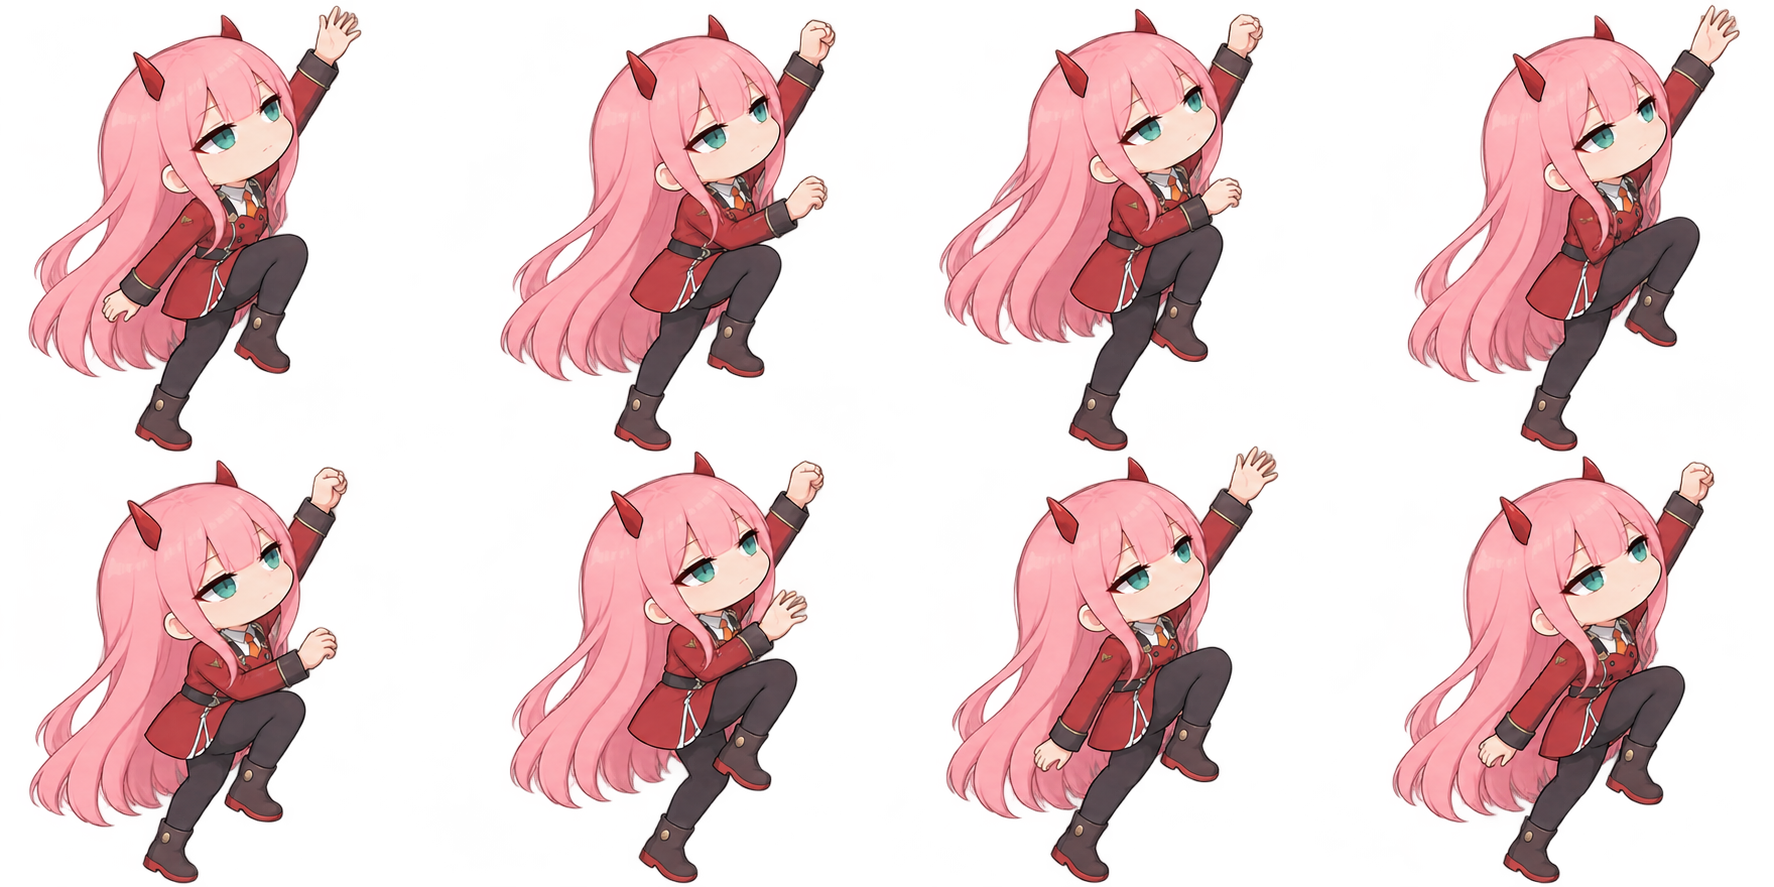
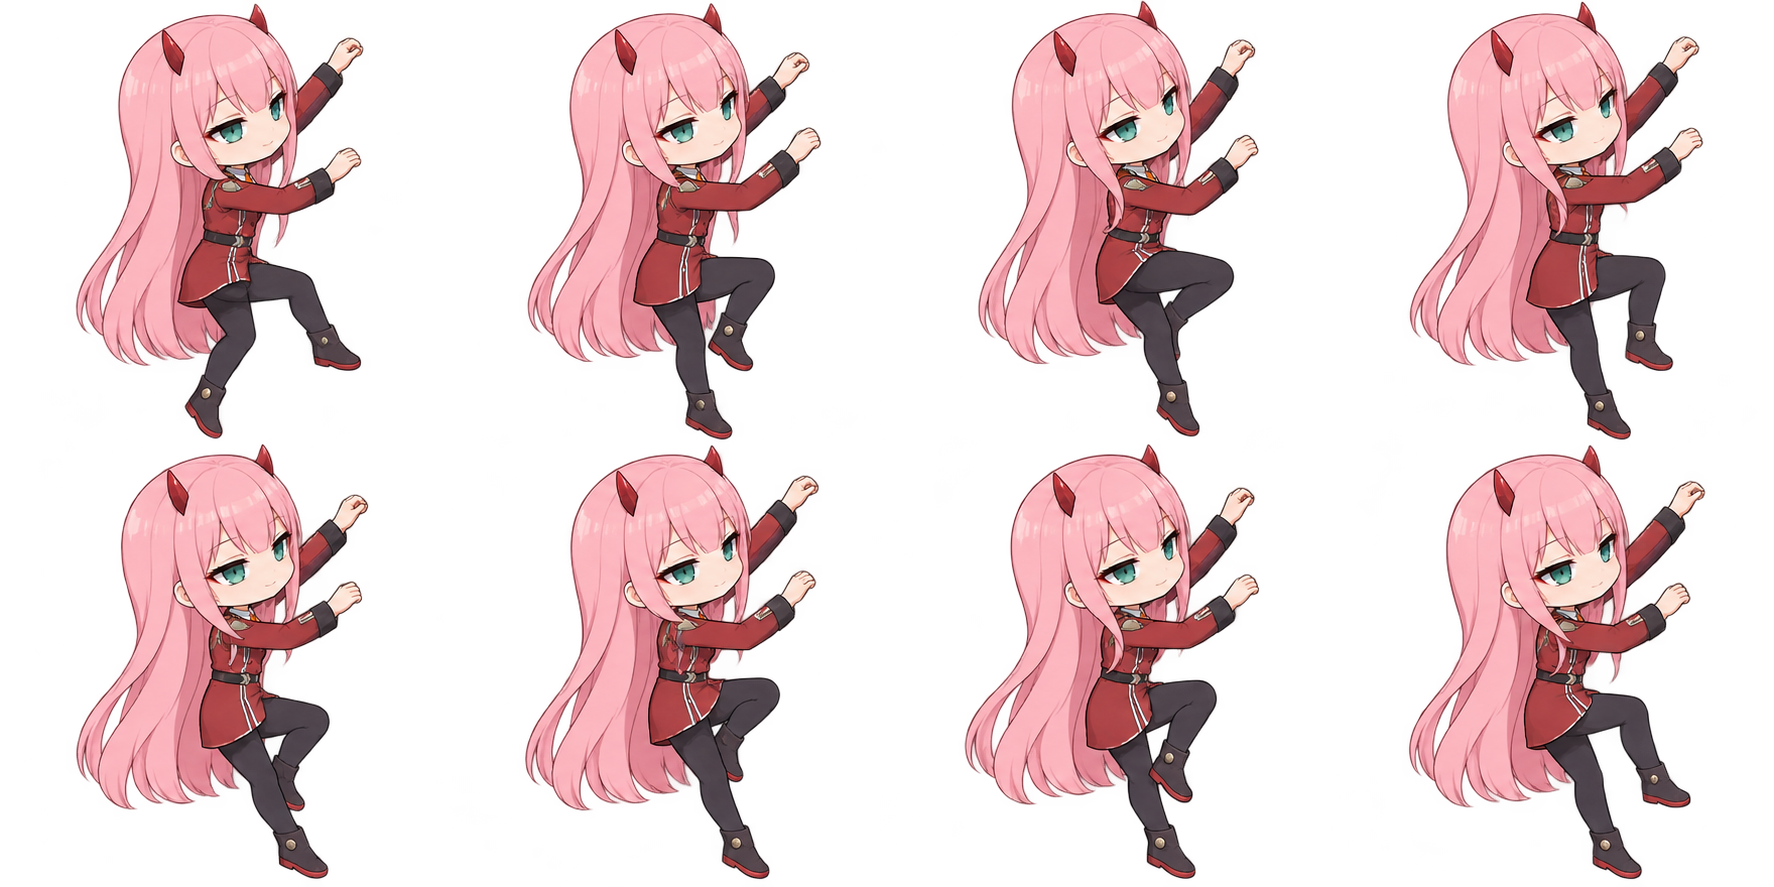
art: refine guided walk, climb and stretch sequences

diff --git a/assets/ANIMATIONS.md b/assets/ANIMATIONS.md
@@ -8,6 +8,7 @@ Created with the built-in image-generation tool using the approved standing iden
 | poses.png | 4 × 3 | sit, crossleg, rest, sleep, stretch, yawn, wave, jump, drag, hang, dance, victory |
 | walk.png | 4 × 2 | 8 sequential walk frames |
 | climb.png | 4 × 2 | 8 sequential climb frames |
+| stretch.png | 4 × 2 | relax, raise, up, extend, lean left, lean right, release, relax |
 
 Walk and climb use drawn frame cycles. The other poses use individual drawings with subtle motion. Small frame-to-frame line or proportion differences remain subject to visual refinement.
 
@@ -17,6 +18,22 @@ Walk and climb use drawn frame cycles. The other poses use individual drawings w
 Walk frames advance with actual screen distance (4 pixels per frame), avoiding an independent animation clock that can slide the feet. Climbing uses longer reach holds and stronger upward movement during pull frames. Pause freezes motion and playback together.
 
 References: [Toon Boom walk analysis](https://learn.toonboom.com/modules/walk-cycle-animation/topic/walk-analysis1), [Animation Mentor walk-cycle tutorial](https://www.animationmentor.com/blog/tutorial-animating-human-walk-cycle/).
+
+## Guided motion pass
+
+The third pass uses explicit skeletal guides for contact/down/passing/up poses, alternating supported hands and feet, and the stretch raise/hold/release sequence. Rest, sleep, and the other approved poses and expressions remain unchanged. Stretch uses an eight-frame sheet with nonuniform timing and finishes in its relaxed pose.
+
+### walk
+
+Use case: identity-preserve. Create a production 8-frame 2D sprite atlas in EXACTLY 4 columns x2 rows, landscape2:1. IMAGE1 locks Zero Two's approved slim chibi face/proportions, pale pink hair/red horns, fitted red uniform, black tights/boots. IMAGE2 is an explicit skeletal MOTION guide; follow the changing arm and leg positions cell by cell, but keep IMAGE1 character proportions rather than the stickfigure proportions. The red and blue lines show opposite limbs, NOT outfit colors. Replace the skeletons with the character. Same fixed camera, head size, torso proportions, hair length and cell center in every frame. Safe 8 percent margin per cell. Actual transparent alpha background; no sketch lines, no labels, no numbers, no gridlines, no glow, haze, drop shadow, props, background or floor. Do not repeat the same leg silhouette in all frames. Maintain consistent clean hand-drawn anime style matching approved image1.WALK RIGHT in fixed side profile. Follow the eight skeleton positions EXACTLY in row-major order: contact, down, passing, up, opposite contact, down, opposite passing, up. In frames3 and7 the legs MUST overlap near the vertical hip line, with ONE foot on ground under hips and the OTHER bent foot lifted just above it; these passing frames MUST NOT be another wide-legged stride. In1 and5 feet are apart heel/toe contact, limbs swap. In4 and8 the swinging foot reaches forward. Ground feet aligned92% cell baseline. Very small1-2% head bob, relaxed shoulders, subtle hair movement. Natural relaxed small steps, no skipping or running.
+
+### climb
+
+Use case: identity-preserve. Create a production 8-frame 2D sprite atlas in EXACTLY 4 columns x2 rows, landscape2:1. IMAGE1 locks Zero Two's approved slim chibi face/proportions, pale pink hair/red horns, fitted red uniform, black tights/boots. IMAGE2 is an explicit skeletal MOTION guide; follow the changing arm and leg positions cell by cell, but keep IMAGE1 character proportions rather than the stickfigure proportions. The red and blue lines show opposite limbs, NOT outfit colors. Replace the skeletons with the character. Same fixed camera, head size, torso proportions, hair length and cell center in every frame. Safe 8 percent margin per cell. Actual transparent alpha background; no sketch lines, no labels, no numbers, no gridlines, no glow, haze, drop shadow, props, background or floor. Do not repeat the same leg silhouette in all frames. Maintain consistent clean hand-drawn anime style matching approved image1.CLIMB UP an imaginary screen edge ON THE RIGHT. Copy the guide's changing hand grips, bent elbows, supported foot and lifted knee in each cell. BOTH arms must remain reaching toward the right-side edge throughout; do not drop one arm limply to her side. One hand is always planted at the right-side anchor while other reaches, elbows bend during pull. Feet stay beneath or close to hips, torso close to edge. Fixed right-facing three-quarter view; slight face visible. Natural deliberate ladder-climbing weight transfers, no swimming, no flying, no scissoring legs. Show the actual eight skeletal phases from guide, not eight near-identical reaching pictures.
+
+### stretch
+
+Use case: identity-preserve. Create a production 8-frame 2D sprite atlas in EXACTLY 4 columns x2 rows, landscape2:1. IMAGE1 locks Zero Two's approved slim chibi face/proportions, pale pink hair/red horns, fitted red uniform, black tights/boots. IMAGE2 is an explicit skeletal MOTION guide; follow the changing arm and leg positions cell by cell, but keep IMAGE1 character proportions rather than the stickfigure proportions. The red and blue lines show opposite limbs, NOT outfit colors. Replace the skeletons with the character. Same fixed camera, head size, torso proportions, hair length and cell center in every frame. Safe 8 percent margin per cell. Actual transparent alpha background; no sketch lines, no labels, no numbers, no gridlines, no glow, haze, drop shadow, props, background or floor. Do not repeat the same leg silhouette in all frames. Maintain consistent clean hand-drawn anime style matching approved image1.A gentle complete STRETCH sequence in fixed front view, feet remain planted on same92% baseline. Follow guide row-major:1 arms relaxed at sides;2 arms raise outward;3 hands overhead elbows slightly bent;4 extend arms up full gentle stretch;5 small lean to her left while arms overhead;6 small lean to her right;7 slowly lower arms elbows bent;8 arms return relaxed at sides. Keep face serene, eyes softly closed in peak stretch, neck shoulders relaxed. Spine bends subtly, not exaggerated tumbling, hips stationary, no large body scale changes. End8 returns seamlessly to1. Eight clear progressive drawings, not eight identical arms-up poses.
 
 ## Refined prompts
 
